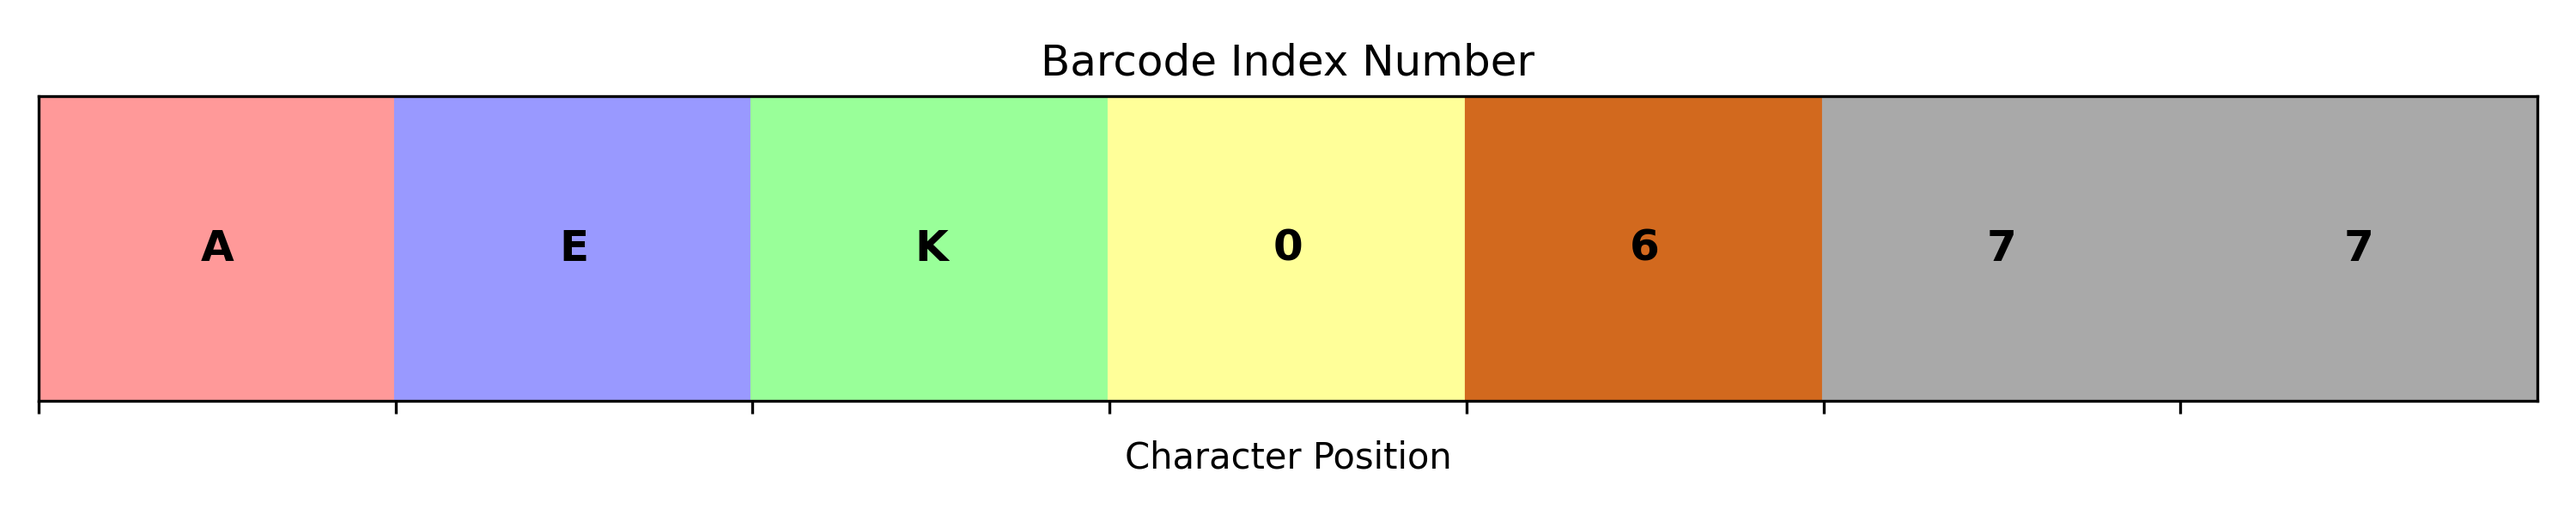
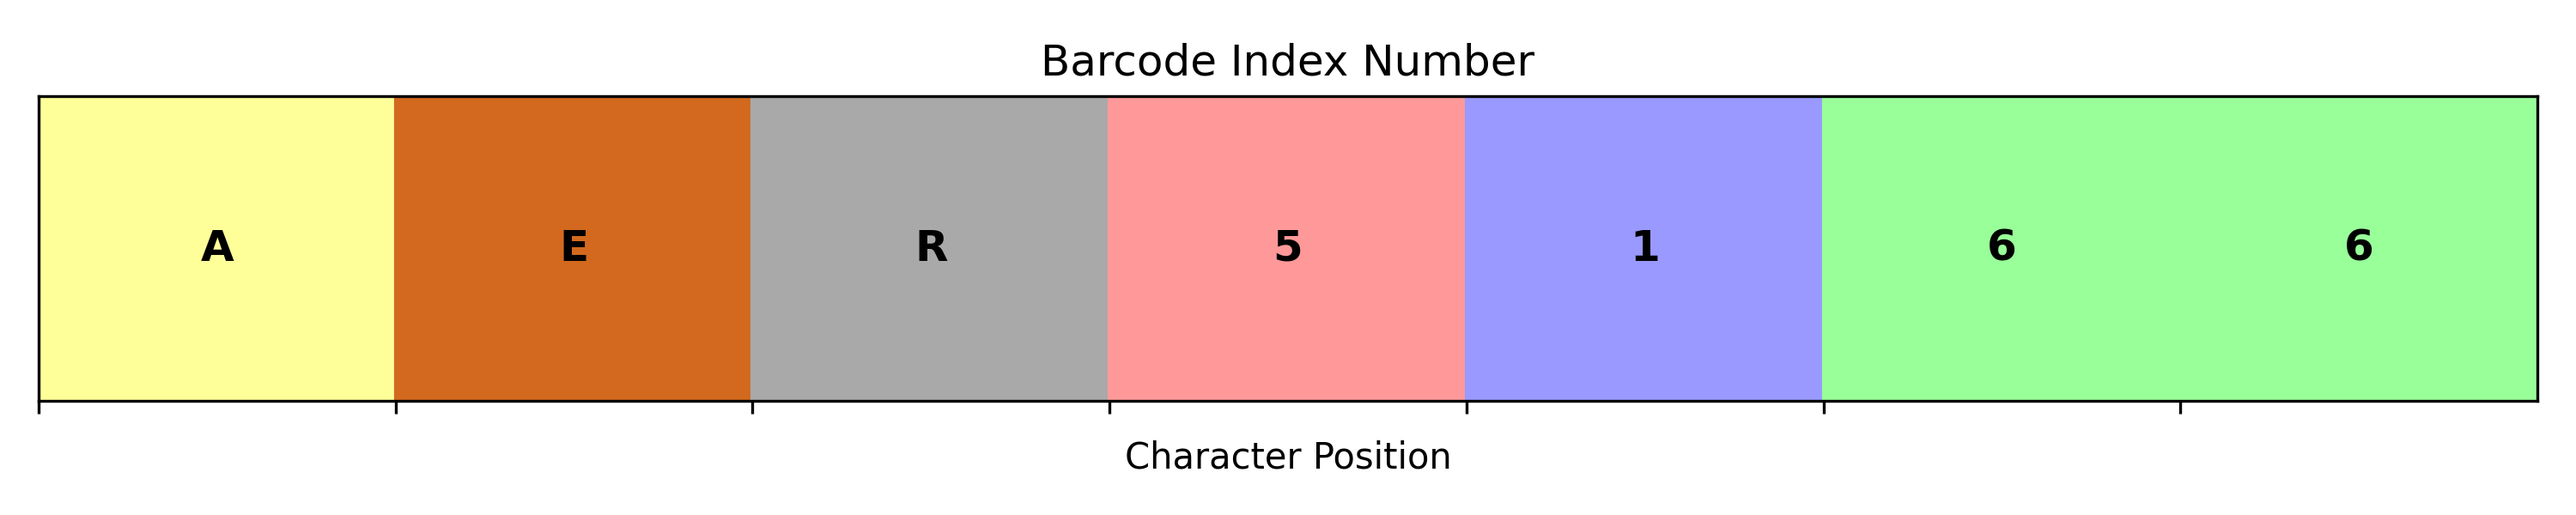
dna and bin info added

diff --git a/README.md b/README.md
@@ -54,7 +54,7 @@ Each OTU is assigned a unique Barcode Index Number (BIN), serving as a Uniform R
 This BIN ensures that genetically identical taxa share the same identifier, registered in the Barcode Of Life Data system. 
 
 ```
-BOLD:AEK0677
+BOLD:AER5166
 ```
 ![Alt Text](dataset/bioscan_images/BIN.png)
 
